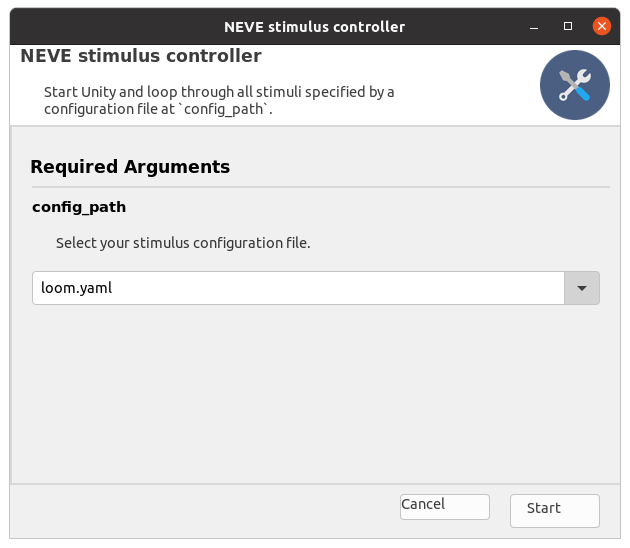
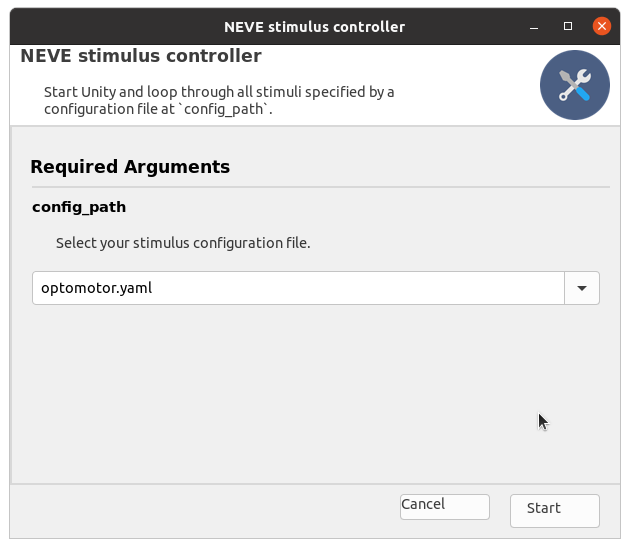
corrected gui images in docs

Changed region(s): [[0.0603, 0.4964, 0.2413, 0.5584], [0.8746, 0.4964, 0.9651, 0.5584], [0.8444, 0.7445, 0.8746, 0.7755]]

diff --git a/README.md b/README.md
@@ -83,7 +83,7 @@ stimulus displayed on your designated screen (specified by your config file).
 
 Expected status window output:
 
-![NEVE GUI after clicking start](docs/NEVE_gui.png)
+![NEVE GUI after clicking start](docs/NEVE_gui2.png)
 
 Expected stimulus with `./configs/optomotor.yaml`
 
